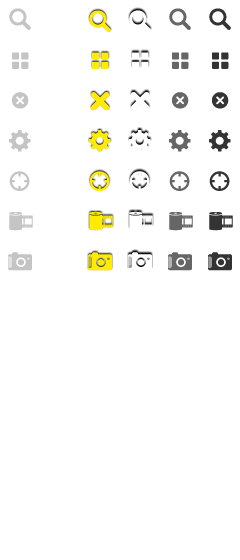
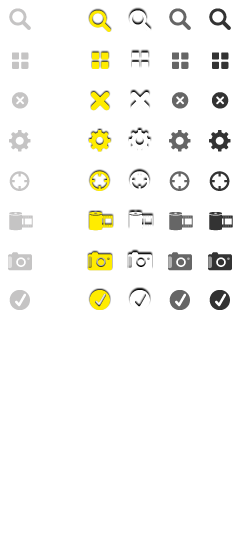
Add tick state to button for exiting edit mode on dash

diff --git a/css/pages.less b/css/pages.less
@@ -620,6 +620,39 @@
         .corner-top (8px);
         .corner-bottom(0);
     }
+    /* Tick state for button while in edit mode */
+    .ui-header{
+        .ui-btn-up-a{
+            .ui-btn-inner{
+                 .ui-icon-settings{ background-position: @a-offset-x @gfx-main-icon-sprite-tick-icon-y;}
+            }
+        }
+        .ui-btn-hover-a{
+            .ui-btn-inner{
+                 .ui-icon-settings{ background-position: @a-offset-x-hover @gfx-main-icon-sprite-tick-icon-y;}
+            }
+        }
+        .ui-btn-up-b{
+            .ui-btn-inner{
+                 .ui-icon-settings{ background-position: @b-offset-x @gfx-main-icon-sprite-tick-icon-y;}
+            }
+        }
+        .ui-btn-hover-b{
+            .ui-btn-inner{
+                 .ui-icon-settings{ background-position: @b-offset-x-hover @gfx-main-icon-sprite-tick-icon-y;}
+            }
+        }
+        .ui-btn-up-b{
+            .ui-btn-inner{
+                 .ui-icon-settings{ background-position: @b-offset-x @gfx-main-icon-sprite-tick-icon-y;}
+            }
+        }
+        .ui-btn-hover-b{
+            .ui-btn-inner{
+                 .ui-icon-settings{ background-position: @b-offset-x-hover @gfx-main-icon-sprite-tick-icon-y;}
+            }
+        }
+    }
 }
 
 

diff --git a/css/main.css b/css/main.css
@@ -3936,6 +3936,10 @@ a.ui-link-inherit {
 .dash-footer .ui-btn-inner .ui-icon.ui-icon-search {
   background-position: 0 -32px;
 }
+#dashboard.edit {
+  /* Tick state for button while in edit mode */
+
+}
 #dashboard.edit .dash-wrapper {
   margin-top: 86px;
 }
@@ -3956,6 +3960,24 @@ a.ui-link-inherit {
   -moz-border-radius-bottomright: 0;
   -webkit-border-bottom-right-radius: 0;
   border-bottom-right-radius: 0;
+}
+#dashboard.edit .ui-header .ui-btn-up-a .ui-btn-inner .ui-icon-settings {
+  background-position: 0px -280px;
+}
+#dashboard.edit .ui-header .ui-btn-hover-a .ui-btn-inner .ui-icon-settings {
+  background-position: -40px -280px;
+}
+#dashboard.edit .ui-header .ui-btn-up-b .ui-btn-inner .ui-icon-settings {
+  background-position: -80px -280px;
+}
+#dashboard.edit .ui-header .ui-btn-hover-b .ui-btn-inner .ui-icon-settings {
+  background-position: -120px -280px;
+}
+#dashboard.edit .ui-header .ui-btn-up-b .ui-btn-inner .ui-icon-settings {
+  background-position: -80px -280px;
+}
+#dashboard.edit .ui-header .ui-btn-hover-b .ui-btn-inner .ui-icon-settings {
+  background-position: -120px -280px;
 }
 /*
 * @share - PAGE

diff --git a/css/sprites.less b/css/sprites.less
@@ -14,6 +14,8 @@
 @gfx-main-icon-sprite-location-icon-y:  -4 * @gfx-main-icon-sprite-grid;
 @gfx-main-icon-sprite-camroll-icon-y:   -5 * @gfx-main-icon-sprite-grid;
 @gfx-main-icon-sprite-camera-icon-y:    -6 * @gfx-main-icon-sprite-grid;
+@gfx-main-icon-sprite-tick-icon-y:      -7 * @gfx-main-icon-sprite-grid;
+
 /* Horizontal offsets for theme swatches / hover states */
 @a-offset-x:                            -0 * @gfx-main-icon-sprite-grid;
 @a-offset-x-hover:                      -1 * @gfx-main-icon-sprite-grid;
